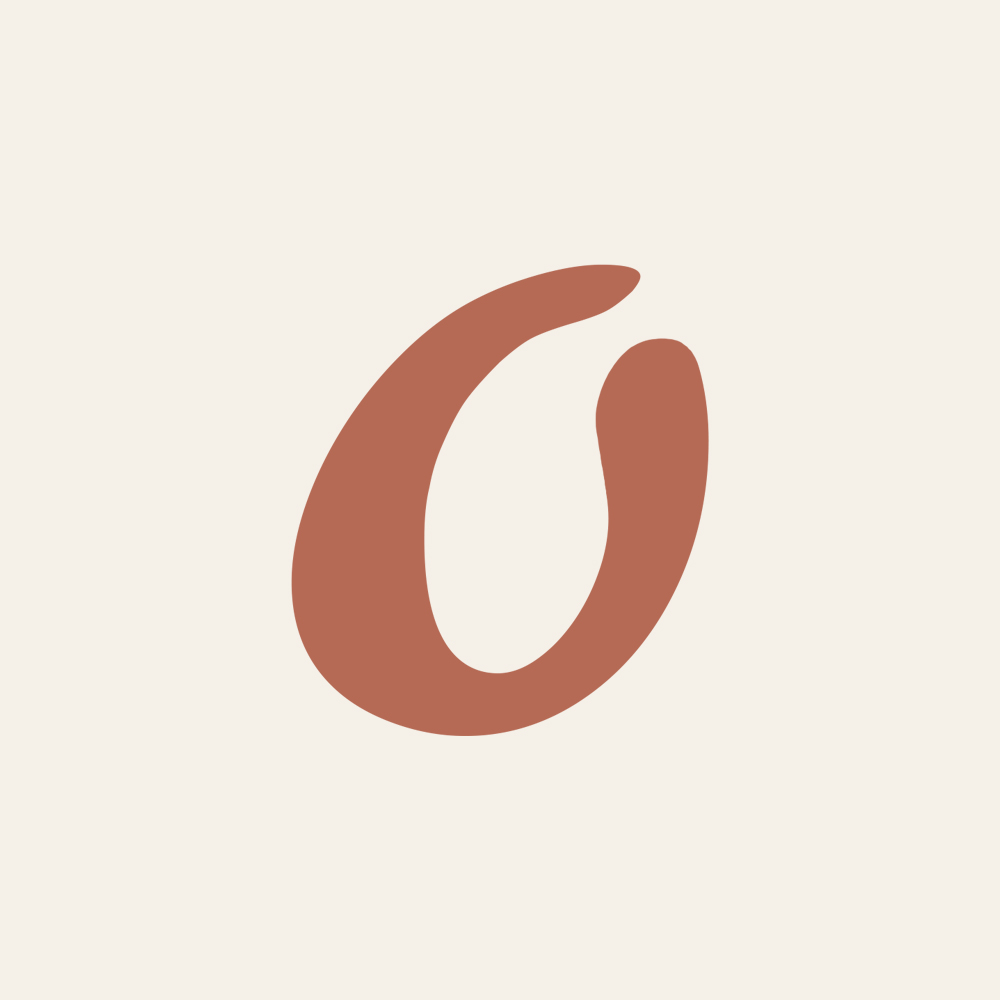
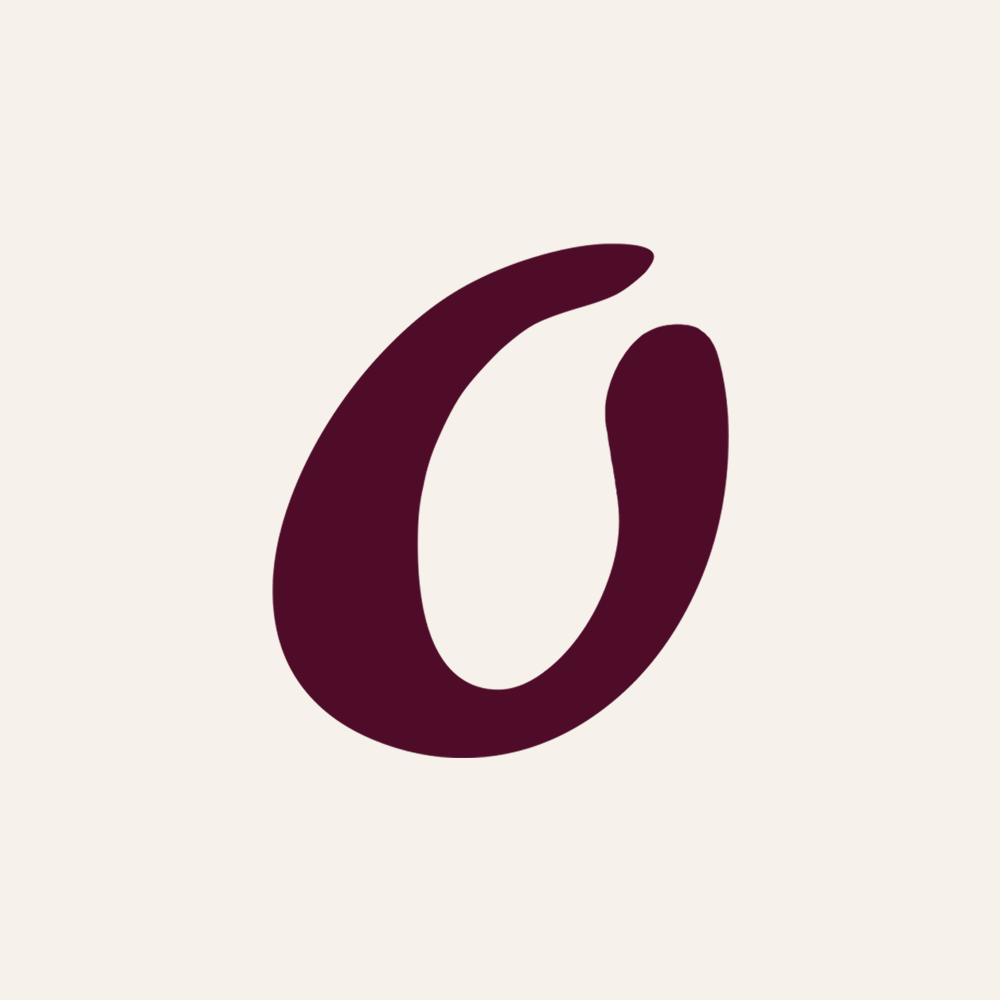
Theme changed

Changed region(s): [[0.248, 0.217, 0.744, 0.775]]

diff --git a/site.css b/site.css
@@ -64,9 +64,9 @@
   --bg: hsl(37, 37%, 96%);
   --fg: hsl(0, 0%, 20%);
   --fg-muted: hsl(0, 0%, 45%);
-  --primary: hsl(13, 39%, 52%);      /* terracotta #B56A55 */
+  --primary: hsl(335, 74%, 18%);
   --primary-light: hsl(13, 39%, 95%);
-  --secondary: hsl(155, 15%, 49%);   /* sage */
+  --secondary: hsl(258, 20%, 43%);
   --muted: hsl(45, 8%, 80%);
   --card: hsl(0, 0%, 100%);
   --border: hsl(45, 8%, 85%);
